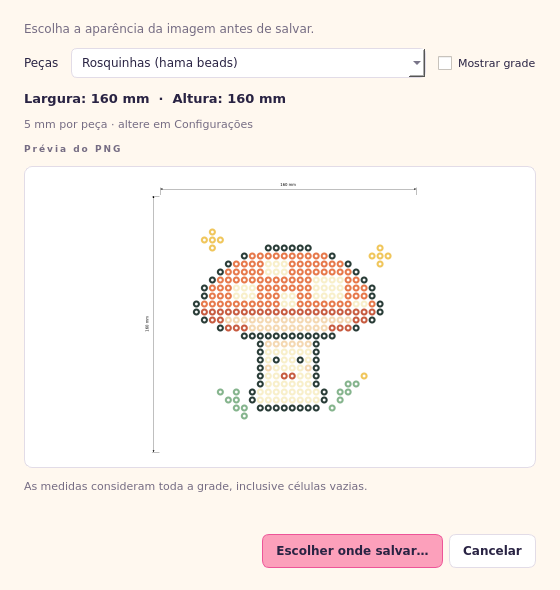
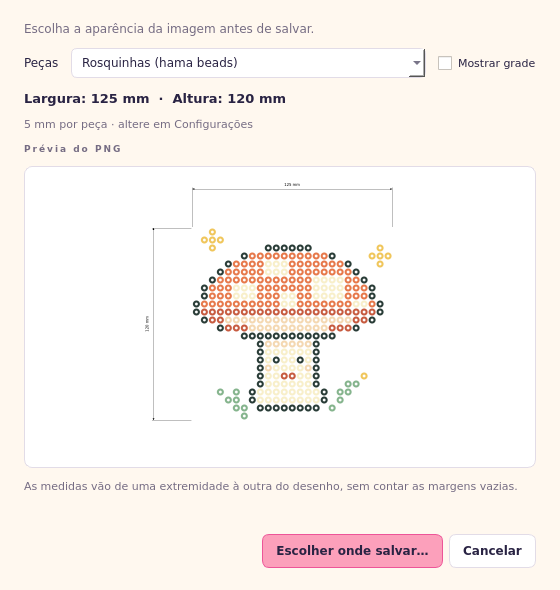
Mede apenas as extremidades ocupadas do desenho no PNG
Calcula largura e altura pelas bordas externas das peças pintadas, em vez das dimensões da grade. As setas acompanham esses limites, ignorando as margens vazias e preservando os espaços internos entre peças. Peças brancas entram no cálculo; uma peça mede 5×5 mm por padrão e o desenho vazio tem medidas zero.

Prévia, textos de Configurações e documentação usam o mesmo cálculo. O exemplo exportado passa de 160×160 mm da grade para 125×120 mm do desenho, preservando a grade e os dados do Ateliê.

Validação: 148 testes aprovados, incluindo bordas vazias assimétricas, peças desconectadas, branco, peça isolada, vazio e correspondência entre prévia e PNG nos dois modos.

diff --git a/tests/test_png_export.py b/tests/test_png_export.py
@@ -15,7 +15,7 @@ from PySide6.QtWidgets import QApplication
 
 from piixelverso.model import PixelDesign
 from piixelverso.png_export import (
-    CELL_SIZE, GRID_COLOR, export_layout, format_mm, measurement_labels,
+    CELL_SIZE, GRID_COLOR, export_layout, format_mm, measurement_labels, occupied_bounds,
     render_png, save_png,
 )
 
@@ -40,14 +40,51 @@ class PNGExportTests(unittest.TestCase):
                    for y in range(rect.top(), rect.bottom() + 1)
                    for x in range(rect.left(), rect.right() + 1))
 
-    def test_measurements_use_the_entire_grid_and_configured_piece_size(self):
+    def test_measurements_use_the_painted_span_and_configured_piece_size(self):
         design = PixelDesign(32, 16)
-        design.set_pixel(7, 3, RED)
+        design.set_pixel(0, 0, RED)
+        design.set_pixel(31, 15, BLUE)
         self.assertEqual(measurement_labels(design), ("160 mm", "80 mm"))
         self.assertEqual(measurement_labels(design, 2.6), ("83,2 mm", "41,6 mm"))
         self.assertEqual(format_mm(12.5), "12,5 mm")
         self.assertEqual(format_mm(20.0), "20 mm")
         self.assertEqual(format_mm(0.1), "0,1 mm")
+
+    def test_empty_outer_borders_are_excluded_but_gaps_and_white_pieces_count(self):
+        design = PixelDesign(15, 12)
+        design.set_pixel(3, 2, RED)
+        design.set_pixel(8, 6, BLUE)
+        design.set_pixel(10, 8, WHITE)
+        original = design.clone()
+        self.assertEqual(occupied_bounds(design), (3, 2, 11, 9))
+        self.assertEqual(measurement_labels(design), ("40 mm", "35 mm"))
+        self.assertEqual(measurement_labels(design, 2.6), ("20,8 mm", "18,2 mm"))
+        self.assertEqual(design.filled_count, 3)
+        self.assertIsNone(design.get_pixel(6, 5))
+        self.assertEqual(design, original)
+
+    def test_one_piece_measures_one_cell_even_far_from_the_grid_origin(self):
+        for color in (RED, WHITE):
+            with self.subTest(color=color):
+                design = PixelDesign(128, 128)
+                design.set_pixel(123, 117, color)
+                self.assertEqual(occupied_bounds(design), (123, 117, 124, 118))
+                self.assertEqual(measurement_labels(design), ("5 mm", "5 mm"))
+                self.assertEqual(measurement_labels(design, 2.6), ("2,6 mm", "2,6 mm"))
+
+    def test_an_empty_design_measures_zero_and_has_no_dimension_arrows(self):
+        design = PixelDesign(7, 6)
+        self.assertIsNone(occupied_bounds(design))
+        self.assertEqual(measurement_labels(design), ("0 mm", "0 mm"))
+        layout = export_layout(design)
+        self.assertEqual((layout.design_width, layout.design_height), (0, 0))
+        image = render_png(design, show_grid=True)
+        for x in range(layout.grid_left, layout.grid_left + layout.grid_width + 1):
+            self.assertEqual(self.pixel(image, x, layout.horizontal_arrow_y), WHITE)
+        for y in range(layout.grid_top, layout.grid_top + layout.grid_height + 1):
+            self.assertEqual(self.pixel(image, layout.vertical_arrow_x, y), WHITE)
+        self.assertTrue(self.has_black(image, layout.horizontal_label_rect))
+        self.assertTrue(self.has_black(image, layout.vertical_label_rect))
 
     def test_squares_keep_exact_colors_and_empty_cells_are_white_without_mutation(self):
         design = PixelDesign(3, 2, [RED, BLUE, None, WHITE, None, RED])
@@ -93,6 +130,8 @@ class PNGExportTests(unittest.TestCase):
 
     def test_dimension_arrows_and_text_are_black_above_and_left_of_the_grid(self):
         design = PixelDesign(4, 3)
+        design.set_pixel(3, 0, RED)
+        design.set_pixel(0, 2, BLUE)
         layout = export_layout(design)
         image = render_png(design, show_grid=False)
         self.assertEqual(layout.width_label, "20 mm")
@@ -112,11 +151,47 @@ class PNGExportTests(unittest.TestCase):
         self.assertLess(layout.vertical_label_rect.right(), x0)
         self.assertEqual(self.pixel(image, x0 + 16, y0 + 16), WHITE)
 
+    def test_arrows_span_only_the_design_extremes_in_both_piece_display_modes(self):
+        design = PixelDesign(11, 10)
+        design.set_pixel(3, 2, RED)
+        design.set_pixel(8, 6, BLUE)
+        original = design.clone()
+        layout = export_layout(design)
+        self.assertEqual((layout.width_label, layout.height_label), ("30 mm", "25 mm"))
+        self.assertEqual(layout.design_left, layout.grid_left + 3 * CELL_SIZE)
+        self.assertEqual(layout.design_top, layout.grid_top + 2 * CELL_SIZE)
+        self.assertEqual((layout.design_width, layout.design_height), (6 * CELL_SIZE, 5 * CELL_SIZE))
+        x0, y0 = layout.design_left, layout.design_top
+        x1, y1 = x0 + layout.design_width, y0 + layout.design_height
+        self.assertLessEqual(abs(layout.horizontal_label_rect.center().x() - (x0 + x1) / 2), 1)
+        self.assertLessEqual(abs(layout.vertical_label_rect.center().y() - (y0 + y1) / 2), 1)
+        for mode in ("squares", "beads"):
+            with self.subTest(mode=mode):
+                image = render_png(design, display_mode=mode, show_grid=False)
+                self.assertEqual(image.size(), layout.image_size)
+                for x in (x0, x0 + 3, (x0 + x1) // 2, x1 - 3, x1):
+                    self.assertEqual(self.pixel(image, x, layout.horizontal_arrow_y), BLACK)
+                for y in (y0, y0 + 3, (y0 + y1) // 2, y1 - 3, y1):
+                    self.assertEqual(self.pixel(image, layout.vertical_arrow_x, y), BLACK)
+                self.assertEqual(self.pixel(image, x0 + 6, layout.horizontal_arrow_y - 2), BLACK)
+                self.assertEqual(self.pixel(image, layout.vertical_arrow_x - 2, y0 + 6), BLACK)
+                for x in (layout.grid_left, x0 - 8, x1 + 8,
+                          layout.grid_left + layout.grid_width):
+                    self.assertEqual(self.pixel(image, x, layout.horizontal_arrow_y), WHITE)
+                for y in (layout.grid_top, y0 - 8, y1 + 8,
+                          layout.grid_top + layout.grid_height):
+                    self.assertEqual(self.pixel(image, layout.vertical_arrow_x, y), WHITE)
+                self.assertEqual(self.pixel(image, layout.grid_left + 5 * CELL_SIZE + 16,
+                                           layout.grid_top + 4 * CELL_SIZE + 16), WHITE)
+        self.assertEqual(design, original)
+
     def test_tiny_and_narrow_grids_have_room_for_the_complete_labels(self):
         for columns, rows in ((1, 1), (1, 128), (128, 1), (128, 128)):
             for mm in (0.1, 5, 100):
                 with self.subTest(columns=columns, rows=rows, mm=mm):
                     design = PixelDesign(columns, rows)
+                    design.set_pixel(0, 0, RED)
+                    design.set_pixel(columns - 1, rows - 1, BLUE)
                     layout = export_layout(design, mm)
                     for rect in (layout.horizontal_label_rect, layout.vertical_label_rect,
                                  layout.grid_rect):
@@ -126,8 +201,9 @@ class PNGExportTests(unittest.TestCase):
                         self.assertLess(rect.bottom(), layout.image_height)
                     self.assertLessEqual(layout.image_width, 4300)
                     self.assertLessEqual(layout.image_height, 4300)
-        image = render_png(PixelDesign(1, 1, [RED]), piece_size_mm=100)
-        layout = export_layout(PixelDesign(1, 1), 100)
+        tiny = PixelDesign(1, 1, [RED])
+        image = render_png(tiny, piece_size_mm=100)
+        layout = export_layout(tiny, 100)
         self.assertTrue(self.has_black(image, layout.horizontal_label_rect))
         self.assertTrue(self.has_black(image, layout.vertical_label_rect))
 

diff --git a/piixelverso/png_export.py b/piixelverso/png_export.py
@@ -36,6 +36,18 @@ class ExportLayout:
     vertical_label_rect: QRect
     width_label: str
     height_label: str
+    design_left: int
+    design_top: int
+    design_width: int
+    design_height: int
+
+    @property
+    def has_design(self) -> bool:
+        return self.design_width > 0 and self.design_height > 0
+
+    @property
+    def design_rect(self) -> QRect:
+        return QRect(self.design_left, self.design_top, self.design_width, self.design_height)
 
     @property
     def grid_rect(self) -> QRect:
@@ -56,13 +68,28 @@ def format_mm(value: float) -> str:
     return f"{text} mm"
 
 
+def occupied_bounds(design: PixelDesign) -> tuple[int, int, int, int] | None:
+    """Return occupied cell edges, with exclusive right/bottom; white is a piece."""
+    design.validate()
+    left, top, right, bottom = design.width, design.height, 0, 0
+    for index, color in enumerate(design.pixels):
+        if color is not None:
+            row, column = divmod(index, design.width)
+            left, top = min(left, column), min(top, row)
+            right, bottom = max(right, column + 1), max(bottom, row + 1)
+    return (left, top, right, bottom) if right > left else None
+
+
 def measurement_labels(
     design: PixelDesign, piece_size_mm: float = DEFAULT_PIECE_SIZE_MM,
 ) -> tuple[str, str]:
-    """Return the physical width and height of the entire logical grid."""
-    design.validate()
+    """Measure from the outer edge of the first piece to that of the last."""
+    bounds = occupied_bounds(design)
     size = validate_piece_size_mm(piece_size_mm)
-    return format_mm(design.width * size), format_mm(design.height * size)
+    if bounds is None:
+        return "0 mm", "0 mm"
+    left, top, right, bottom = bounds
+    return format_mm((right - left) * size), format_mm((bottom - top) * size)
 
 
 def _dimension_font() -> QFont:
@@ -83,26 +110,35 @@ def export_layout(
     width_text = metrics.horizontalAdvance(width_label) + 12
     height_text = metrics.horizontalAdvance(height_label) + 12
     grid_width, grid_height = design.width * CELL_SIZE, design.height * CELL_SIZE
+    bounds = occupied_bounds(design)
+    min_column, min_row, max_column, max_row = bounds or (0, 0, 0, 0)
+    design_width = (max_column - min_column) * CELL_SIZE
+    design_height = (max_row - min_row) * CELL_SIZE
+    # Labels describe the occupied span; the editable grid keeps its placement.
+    span_width = design_width if bounds else grid_width
+    span_height = design_height if bounds else grid_height
+    offset_x, offset_y = min_column * CELL_SIZE, min_row * CELL_SIZE
 
     # Left: rotated height label, a clear gap, then the dimension arrow.
     vertical_label_left = _OUTER_MARGIN
     vertical_arrow_x = vertical_label_left + font_height + 16
     grid_left = vertical_arrow_x + 28
-    # A very short grid can have a label wider than the measured span.
-    grid_left = max(grid_left, math.ceil((width_text - grid_width) / 2) + _OUTER_MARGIN)
+    # A short occupied span can have a label wider than the measured design.
+    grid_left = max(grid_left, math.ceil((width_text - span_width) / 2) - offset_x + _OUTER_MARGIN)
     horizontal_arrow_y = _OUTER_MARGIN + font_height + 10
     grid_top = horizontal_arrow_y + 28
-    grid_top = max(grid_top, math.ceil((height_text - grid_height) / 2) + _OUTER_MARGIN)
+    grid_top = max(grid_top, math.ceil((height_text - span_height) / 2) - offset_y + _OUTER_MARGIN)
+    design_left, design_top = grid_left + offset_x, grid_top + offset_y
 
     horizontal_label_rect = QRect(
-        round(grid_left + (grid_width - width_text) / 2),
+        round(design_left + (span_width - width_text) / 2),
         horizontal_arrow_y - font_height - 8,
         width_text,
         font_height,
     )
     vertical_label_rect = QRect(
         vertical_label_left,
-        round(grid_top + (grid_height - height_text) / 2),
+        round(design_top + (span_height - height_text) / 2),
         font_height,
         height_text,
     )
@@ -112,6 +148,7 @@ def export_layout(
         CELL_SIZE, grid_left, grid_top, grid_width, grid_height,
         image_width, image_height, horizontal_arrow_y, vertical_arrow_x,
         horizontal_label_rect, vertical_label_rect, width_label, height_label,
+        design_left, design_top, design_width, design_height,
     )
 
 
@@ -119,25 +156,26 @@ def _paint_dimensions(painter: QPainter, layout: ExportLayout) -> None:
     painter.setRenderHint(QPainter.RenderHint.Antialiasing, False)
     painter.setPen(QPen(QColor("#000000"), 1))
     painter.setBrush(QColor("#000000"))
-    left, top = layout.grid_left, layout.grid_top
-    right, bottom = left + layout.grid_width, top + layout.grid_height
+    left, top = layout.design_left, layout.design_top
+    right, bottom = left + layout.design_width, top + layout.design_height
     y, x = layout.horizontal_arrow_y, layout.vertical_arrow_x
 
-    # Extension lines leave a small gap before the artwork itself.
-    for edge in (left, right):
-        painter.drawLine(edge, y - 6, edge, top - 5)
-    for edge in (top, bottom):
-        painter.drawLine(x - 6, edge, left - 5, edge)
-    painter.drawLine(left, y, right, y)
-    painter.drawLine(x, top, x, bottom)
-    head = 7
-    for points in (
-        [(left, y), (left + head, y - 3), (left + head, y + 3)],
-        [(right, y), (right - head, y - 3), (right - head, y + 3)],
-        [(x, top), (x - 3, top + head), (x + 3, top + head)],
-        [(x, bottom), (x - 3, bottom - head), (x + 3, bottom - head)],
-    ):
-        painter.drawPolygon(QPolygon([QPoint(px, py) for px, py in points]))
+    if layout.has_design:
+        # Extension lines stop just before the actual design's outer edges.
+        for edge in (left, right):
+            painter.drawLine(edge, y - 6, edge, top - 5)
+        for edge in (top, bottom):
+            painter.drawLine(x - 6, edge, left - 5, edge)
+        painter.drawLine(left, y, right, y)
+        painter.drawLine(x, top, x, bottom)
+        head = 7
+        for points in (
+            [(left, y), (left + head, y - 3), (left + head, y + 3)],
+            [(right, y), (right - head, y - 3), (right - head, y + 3)],
+            [(x, top), (x - 3, top + head), (x + 3, top + head)],
+            [(x, bottom), (x - 3, bottom - head), (x + 3, bottom - head)],
+        ):
+            painter.drawPolygon(QPolygon([QPoint(px, py) for px, py in points]))
 
     painter.setFont(_dimension_font())
     painter.drawText(layout.horizontal_label_rect, Qt.AlignmentFlag.AlignCenter, layout.width_label)
@@ -168,7 +206,7 @@ def render_png(
     design: PixelDesign, *, display_mode: str = "squares", show_grid: bool = True,
     piece_size_mm: float = DEFAULT_PIECE_SIZE_MM,
 ) -> QImage:
-    """Draw the entire grid and its physical measurements on a white image."""
+    """Draw the grid and the occupied design's measurements on a white image."""
     if display_mode not in ("squares", "beads"):
         raise ValueError("O modo de exibição deve ser 'squares' ou 'beads'.")
     if not isinstance(show_grid, bool):

diff --git a/tests/test_export_ui.py b/tests/test_export_ui.py
@@ -187,6 +187,56 @@ class ExportPngUiTests(unittest.TestCase):
         self.assertEqual(self.editor_state(), before)
         self.assertEqual(list(self.root.rglob("*.png")), [])
 
+    def test_preview_and_png_measure_only_the_painted_design_inside_an_empty_border(self):
+        from piixelverso.png_export import export_layout
+
+        design = PixelDesign(10, 9, name="Peças dentro da grade")
+        design.set_pixel(2, 1, CORAL)
+        design.set_pixel(6, 5, FOREST)
+        design.set_pixel(7, 6, "#FFFFFF")
+        self.atelier._replace_design(design)
+        self.assertTrue(self.atelier._save_path(self.source_path))
+        self.app.processEvents()
+        for mm, width_label, height_label in ((5.0, "30 mm", "30 mm"),
+                                             (2.6, "15,6 mm", "15,6 mm")):
+            self.preferences.set_piece_size_mm(mm)
+            for mode in ("squares", "beads"):
+                with self.subTest(piece_size_mm=mm, mode=mode):
+                    before = self.editor_state()
+                    path = self.root / f"arte-{mode}-{mm}.png"
+                    accept = self.accept_options(mode, False)
+
+                    def accept_measured_design(dialog):
+                        self.assertIn(f"Largura: {width_label}", dialog.dimensions_label.text())
+                        self.assertIn(f"Altura: {height_label}", dialog.dimensions_label.text())
+                        return accept(dialog)
+
+                    with patch("piixelverso.atelier.ExportPngDialog.exec",
+                               new=accept_measured_design), patch(
+                        "piixelverso.atelier.QFileDialog.getSaveFileName",
+                        return_value=(str(path), "PNG (*.png)"),
+                    ):
+                        self.key_export()
+                    image = self.read_png(path)
+                    layout = export_layout(design, mm)
+                    self.assertEqual((layout.width_label, layout.height_label),
+                                     (width_label, height_label))
+                    self.assertEqual(layout.design_left, layout.grid_left + 2 * layout.cell_size)
+                    self.assertEqual(layout.design_top, layout.grid_top + layout.cell_size)
+                    self.assertEqual((layout.design_width, layout.design_height),
+                                     (6 * layout.cell_size, 6 * layout.cell_size))
+                    self.assertEqual(image.pixelColor(
+                        layout.design_left + layout.design_width // 2,
+                        layout.horizontal_arrow_y).name(), "#000000")
+                    self.assertEqual(image.pixelColor(
+                        layout.vertical_arrow_x,
+                        layout.design_top + layout.design_height // 2).name(), "#000000")
+                    self.assertEqual(image.pixelColor(
+                        layout.grid_left + layout.grid_width,
+                        layout.horizontal_arrow_y).name(), "#ffffff")
+                    self.assertEqual(image.dotsPerMeterX(), round(32000 / mm))
+                    self.assertEqual(self.editor_state(), before)
+
     def test_canceling_the_save_location_does_not_write_or_change_the_document(self):
         before = self.editor_state()
         with patch("piixelverso.atelier.ExportPngDialog.exec",

diff --git a/piixelverso/settings.py b/piixelverso/settings.py
@@ -123,8 +123,8 @@ class SettingsModule(QWidget):
         form.addRow("Lado da peça", self.piece_size_input)
         card_layout.addLayout(form)
         card_layout.addWidget(self._label(
-            "As medidas consideram a grade completa: colunas × tamanho da peça na horizontal "
-            "e linhas × tamanho da peça na vertical.", "settingsNote"
+            "A largura vai da peça mais à esquerda à mais à direita; a altura, da peça mais alta "
+            "à mais baixa. As margens vazias ficam fora da medida.", "settingsNote"
         ))
         card_layout.addWidget(self._label(
             "Clique em Salvar configurações para aplicar o valor às próximas exportações. "

diff --git a/piixelverso/export_dialog.py b/piixelverso/export_dialog.py
@@ -92,7 +92,7 @@ class ExportPngDialog(QDialog):
         preview_layout.addWidget(self.preview_label)
         layout.addWidget(preview_frame)
 
-        note = QLabel("As medidas consideram toda a grade, inclusive células vazias.")
+        note = QLabel("As medidas vão de uma extremidade à outra do desenho, sem contar as margens vazias.")
         note.setWordWrap(True)
         note.setStyleSheet(f"color: {MUTED}; font-size: 11px;")
         layout.addWidget(note)

diff --git a/README.md b/README.md
@@ -114,7 +114,7 @@ No Ateliê, use **Arquivo → Exportar como PNG…** ou **Ctrl+Shift+E**. Escolh
 
 ![Escolha da aparência e prévia do PNG com medidas](docs/previa-exportar-png.png)
 
-O PNG tem fundo branco e inclui setas de duas pontas e textos pretos: a largura fica acima do desenho e a altura à esquerda. As medidas consideram toda a grade, inclusive células vazias. Com o padrão de **5 mm por peça**, uma grade de **32 × 32** mede **160 × 160 mm**.
+O PNG tem fundo branco e inclui setas de duas pontas e textos pretos: a largura fica acima do desenho e a altura à esquerda. As medidas vão da borda da peça mais à esquerda à borda da peça mais à direita e da peça mais alta à mais baixa. As margens vazias ficam fora da medida; os espaços entre as peças continuam contando para a distância entre as extremidades. Por exemplo, um desenho que ocupa **10 colunas × 8 linhas**, mesmo dentro de uma grade maior, mede **50 × 40 mm** com peças de **5 mm**. Peças brancas também entram no cálculo. Sem peças pintadas, as medidas são **0 × 0 mm**.
 
 Clique em **Escolher onde salvar…** para selecionar a pasta e o nome do PNG. O arquivo registra também a densidade correspondente ao tamanho configurado da peça. Exportar mantém o caminho do design, o histórico e o estado de salvamento do `.pii`. Para continuar editando o trabalho em outra sessão, salve também o design pelo comando **Salvar**.
 
